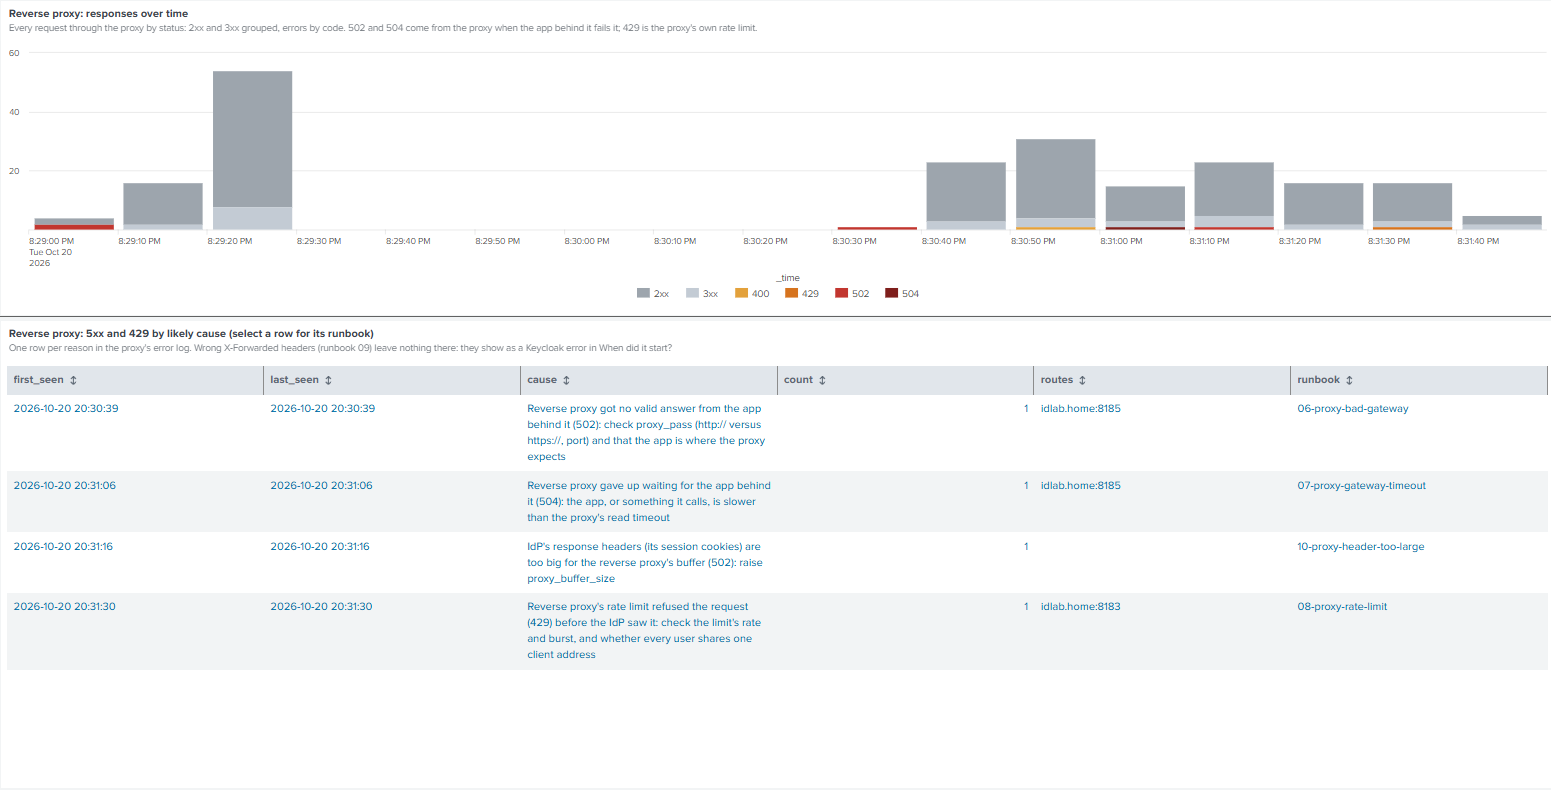
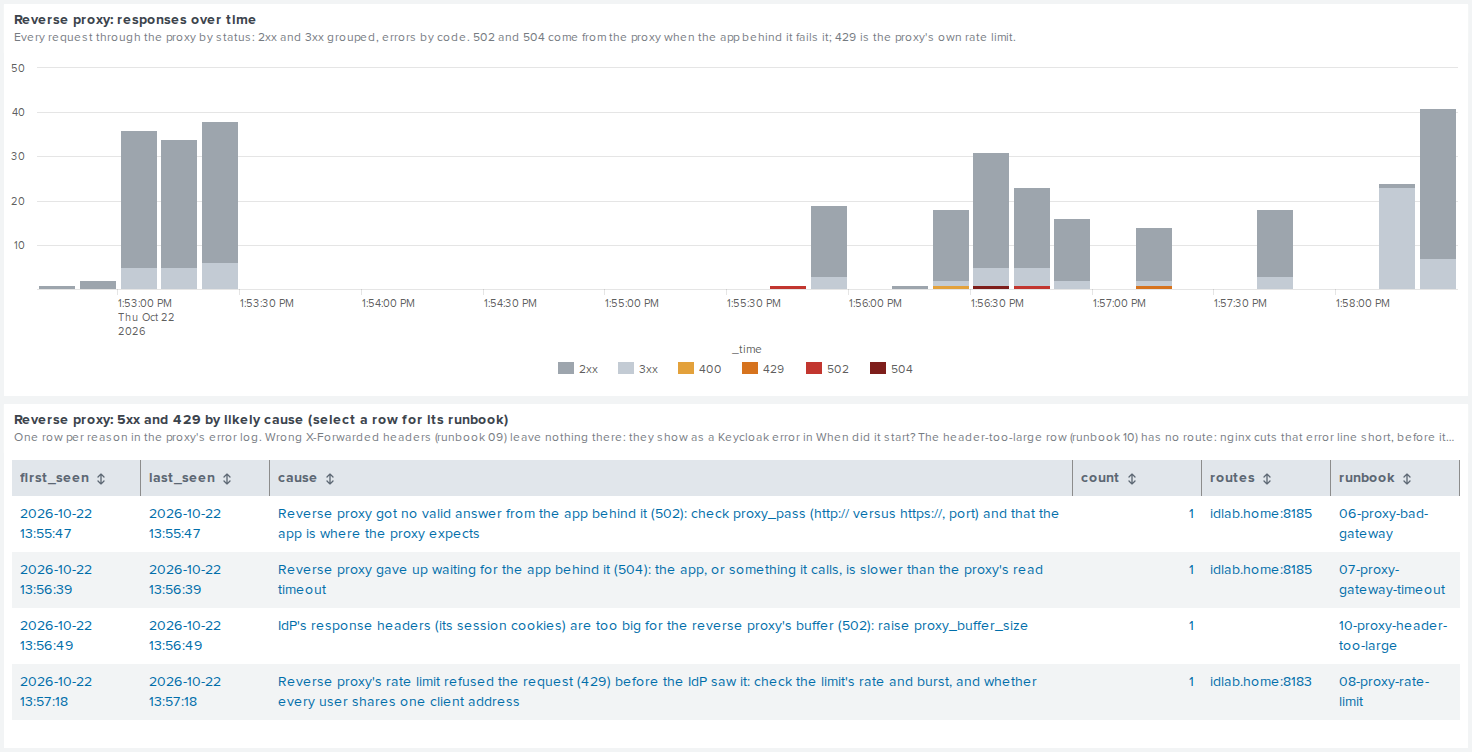
README: screenshots of the 0.4.0 overview, and the API row
All six retaken from the reviewer stack (Splunk 10.4.4, the new samples,
UK time) in headless Chromium: the overview, When did it start? and Who
is affected? with the wider cause columns, the reverse proxy and egress
rows, and a new one of the API (bearer tokens) row, with its caption.
Panels' hover menus hidden; the crops start below Splunk's own bar, so
no user name.

diff --git a/tests/test_docs.py b/tests/test_docs.py
@@ -39,7 +39,7 @@ def test_clone_url_uses_the_repository_name():
 
 
 def test_screenshots_exist_and_come_before_try_it():
-    shots = ["overview.png", "when-did-it-start.png", "who-is-affected.png"]
+    shots = ["overview.png", "when-did-it-start.png", "who-is-affected.png", "proxy.png", "egress-proxy.png", "api.png"]
     for name in shots:
         assert (ROOT / "docs/screenshots" / name).is_file(), name
         assert f"](docs/screenshots/{name})" in README, name

diff --git a/README.md b/README.md
@@ -29,7 +29,10 @@ you can try it without the lab.
 *Reverse proxy: responses over time by status, and each 502, 504 or 429 with its likely cause, route and runbook.*
 
 ![Forward proxy (egress)](docs/screenshots/egress-proxy.png)
-*Forward proxy (egress): the app's calls through Squid over time, and each 407, 403 or TLS interception refusal with its likely cause, apps, route and runbook.*
+*Forward proxy (egress): the app's calls through Squid over time, and each 407, 403 or TLS interception refusal with its likely cause, the app's and Squid's counts, apps, route and runbook.*
+
+![API (bearer tokens)](docs/screenshots/api.png)
+*API (bearer tokens): every call to the API over time, accepted or refused by reason, and each rejection with its status, the clients the tokens were issued to, the audiences they carry and the expired tokens' lifetime.*
 
 The screenshots show real identity-lab data. Times are shown in the Splunk user's time zone (UK time in these screenshots).
 
